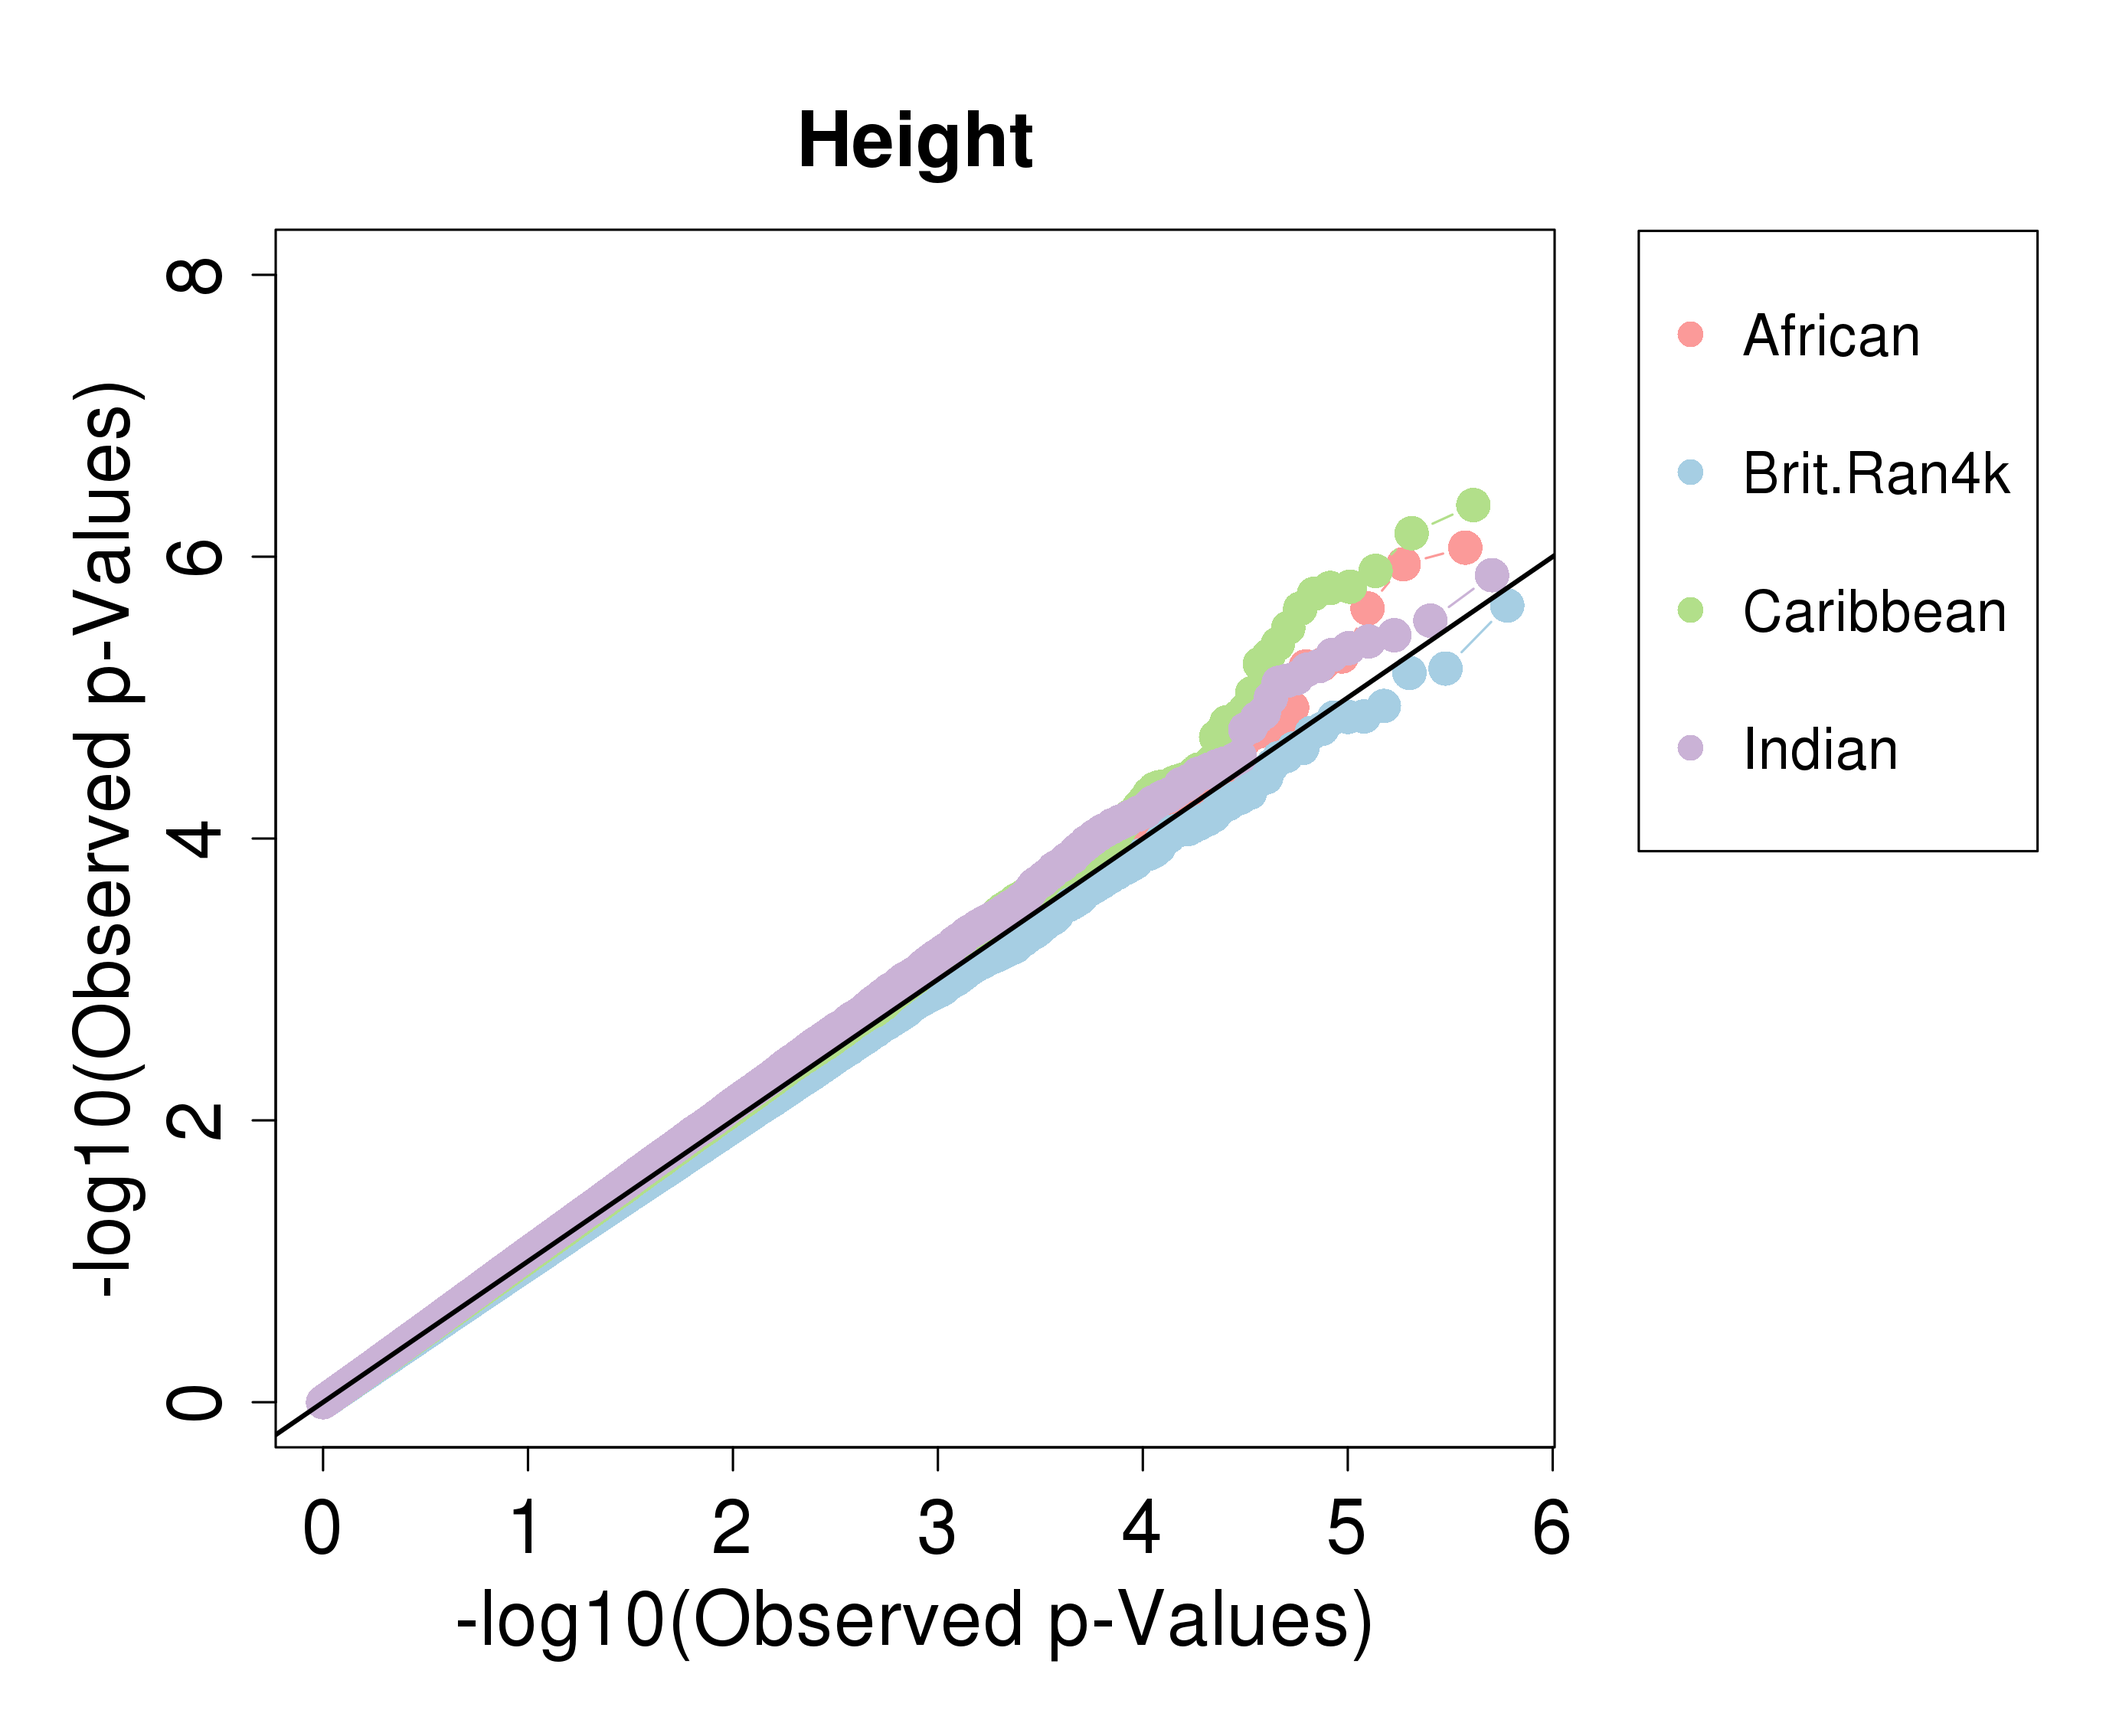
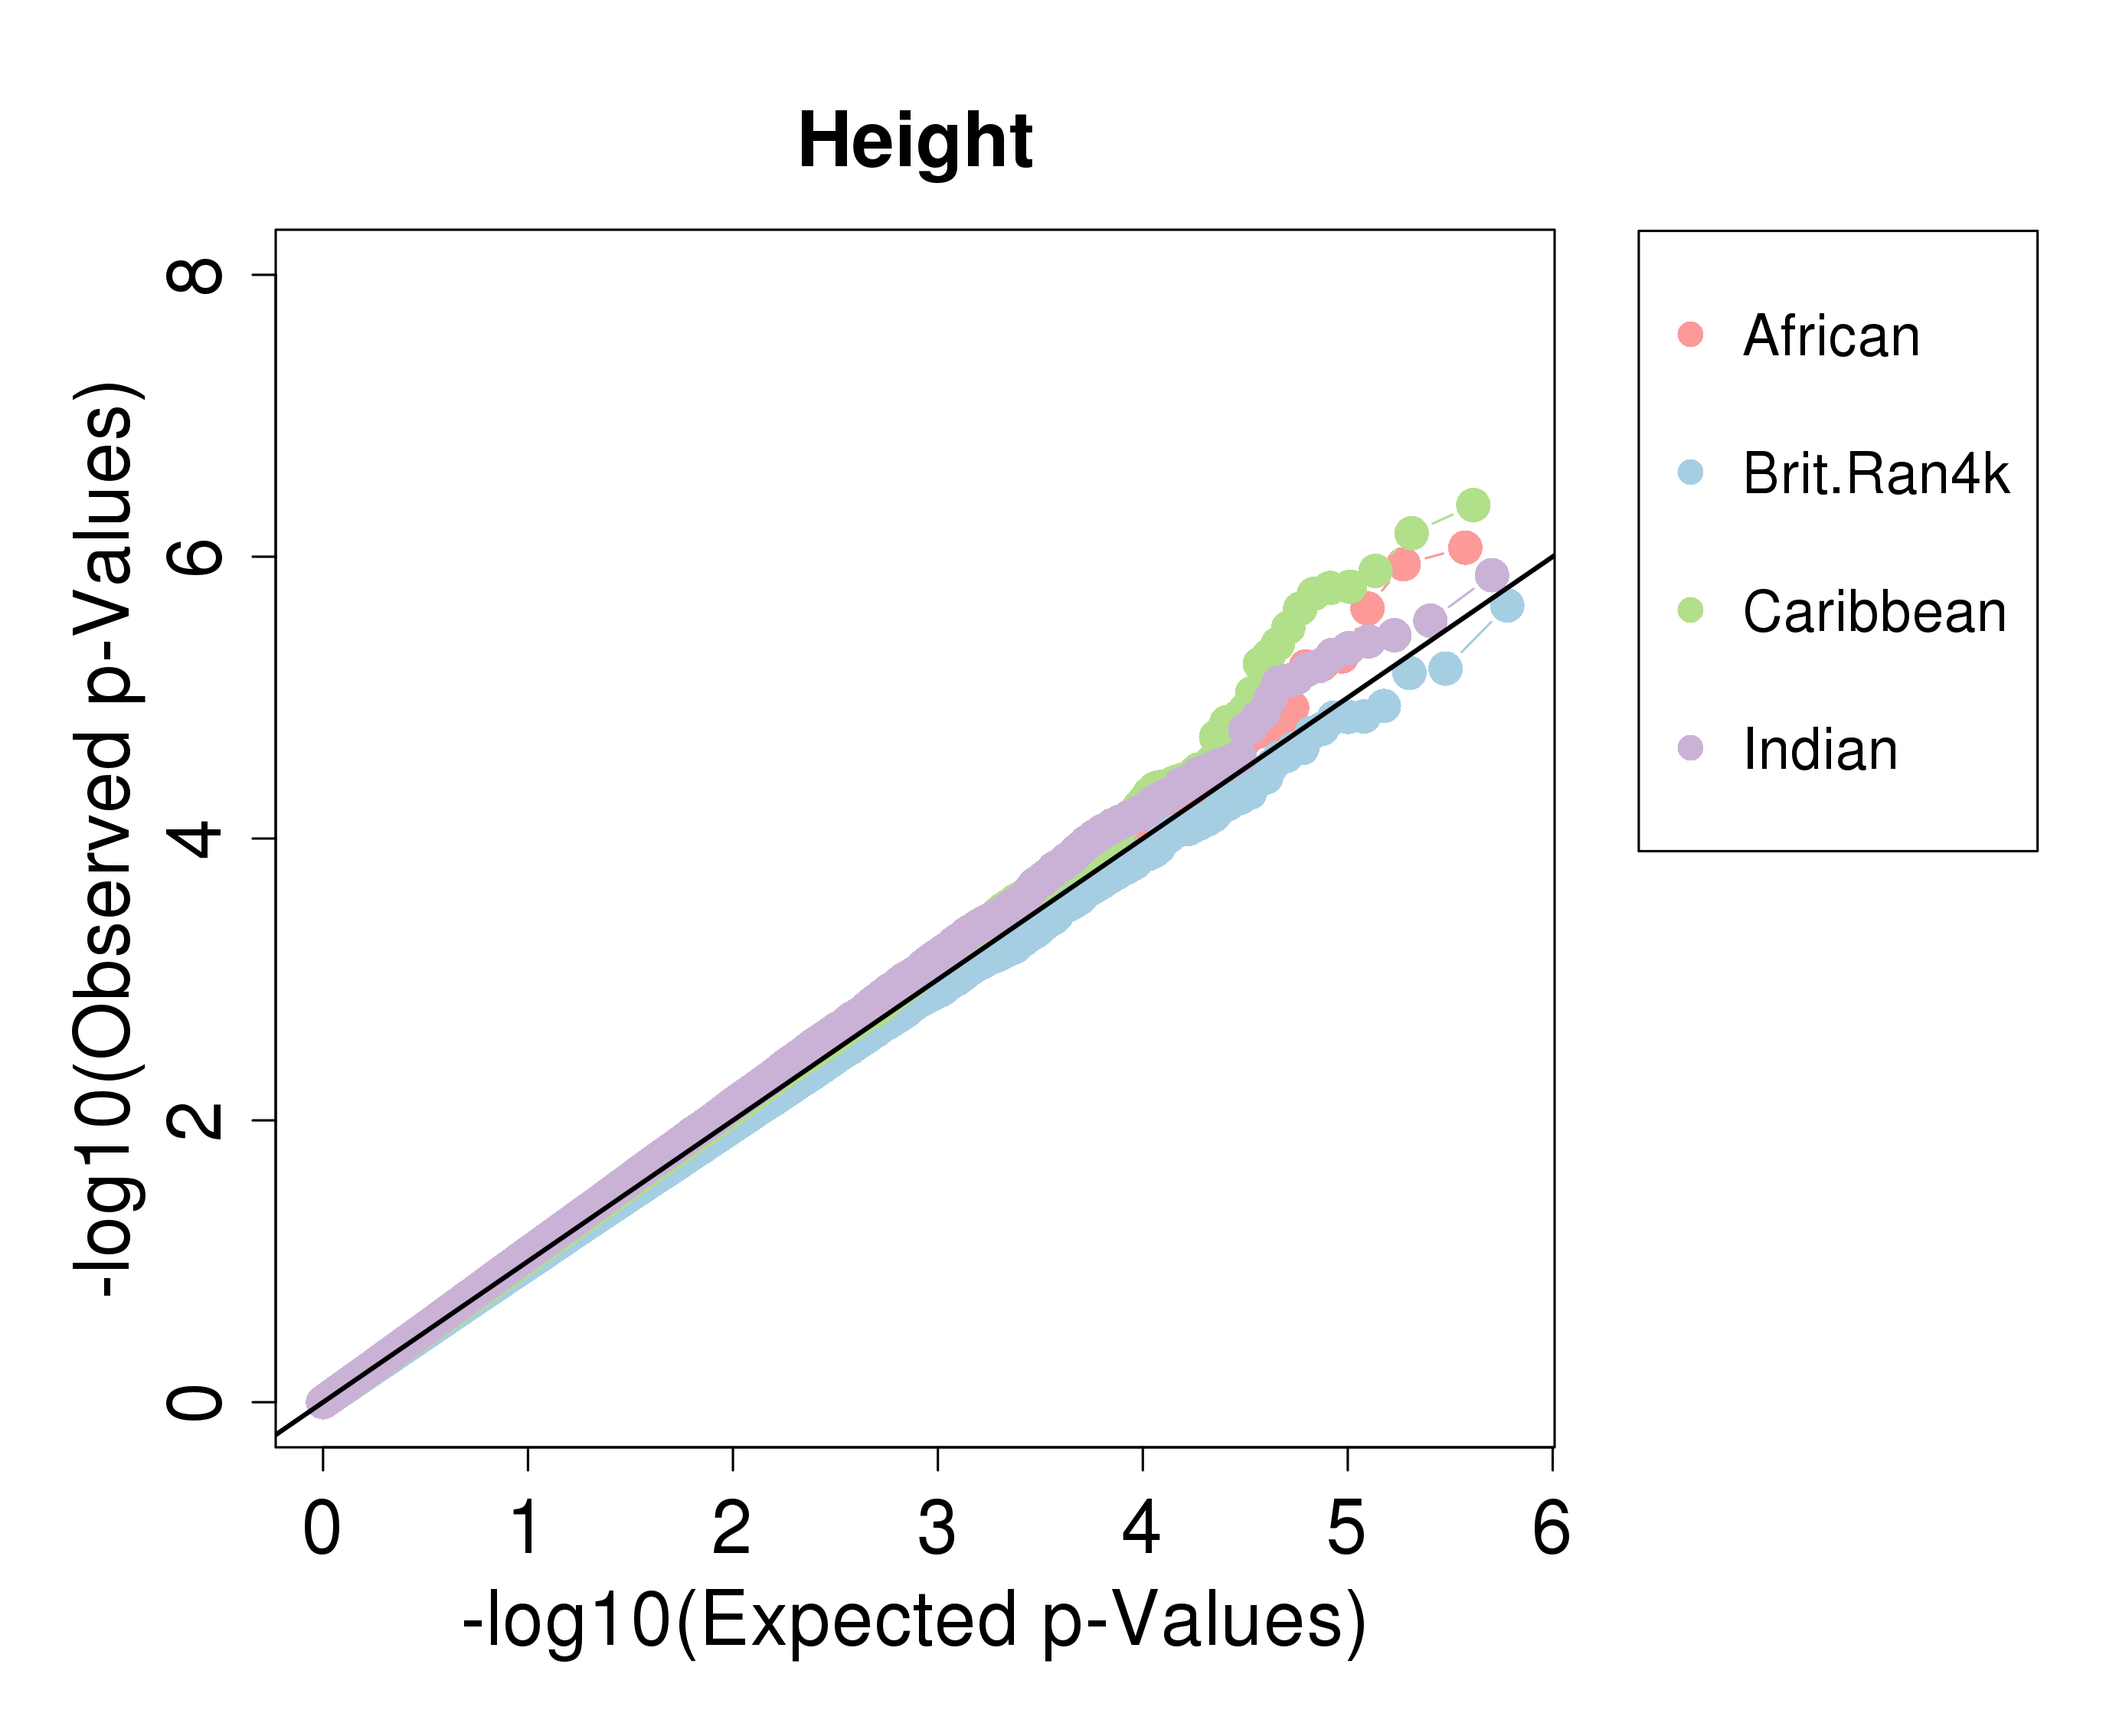
GWAS figure updates

Changed region(s): [[0.2164, 0.9022, 0.6491, 0.9644]]

diff --git a/Main.tex b/Main.tex
@@ -199,13 +199,13 @@ Running MAPIT on our four population subsets for both height and BMI, we find th
 \label{InterPath-Main-Figure-MAPIT-Height}
 \end{figure}
 
-Running a GWAS of height and BMI on each of our population subsets with PLINK, we find only one genome-wide significant hit (height in British.Ran4000; Figure \ref{InterPath-Main-Figure-GWAS}). And further similarly to before, we also find a handful of marginally significant variants. More interestingly however, we now ask how similar the MAPIT and GWAS results are. And indeed, comparing the two sets of genome-wide analyzes, we see a wide range of different genetic architecture patterns being represented (Figure \ref{InterPath-Main-Figure-MAPITvsGWAS} \& Supplementary Figure \ref{} \textcolor{red}{this will be all the population results}). Focusing on the African subset and height, we find 49 SNPs that are only marginally significant in MAPIT, 50 SNPs that are only marginally significant in the GWAS, and 0 SNPs that are marginally significant in both tests. Despite the lack of power to identify genome-wide significant results, we still see a strong representation of the partition of additive and epistatic effects in our results. 
+Running a GWAS of height and BMI on each of our population subsets with PLINK, we find only one genome-wide significant hit (Figure \ref{InterPath-Main-Figure-GWAS-Height} \& Supplementary Figure \ref{InterPath-Supp-Figure-GWAS-BMI}). And further similarly to before, we also find a handful of marginally significant variants. More interestingly however, we now ask how similar the MAPIT and GWAS results are. And indeed, comparing the two sets of genome-wide analyzes, we see a wide range of different genetic architecture patterns being represented (Figure \ref{InterPath-Main-Figure-MAPITvsGWAS} \& Supplementary Figure \ref{} \textcolor{red}{this will be all the population results}). Focusing on the African subset and height, we find 49 SNPs that are only marginally significant in MAPIT, 50 SNPs that are only marginally significant in the GWAS, and 0 SNPs that are marginally significant in both tests. Despite the lack of power to identify genome-wide significant results, we still see a strong representation of the partition of additive and epistatic effects in our results. 
 
 \begin{figure}[htbp]
 \centering
-\includegraphics[scale=.35]{Images/Main/InterPath_Main_Figure_GWAS_vs1.png}
+\includegraphics[scale=.35]{Images/Main/InterPath_Main_Figure_GWAS_vs2_Height.png}
 \caption[TBD]{\textbf{GWAS Results QQ-Plots}.}
-\label{InterPath-Main-Figure-GWAS}
+\label{InterPath-Main-Figure-GWAS-Height}
 \end{figure}
 
 \begin{figure}[htbp]

diff --git a/Supplementary.tex b/Supplementary.tex
@@ -57,6 +57,13 @@ After this first round of QC procedures, we then proceeded to impute our current
 
 \begin{figure}[htbp]
 \centering
+\includegraphics[scale=.35]{Images/Supp/InterPath_Supp_Figure_GWAS_vs2_BMI.png}
+\caption[TBD]{\textbf{GWAS Results QQ-Plots}.}
+\label{InterPath-Supp-Figure-GWAS-BMI}
+\end{figure}
+
+\begin{figure}[htbp]
+\centering
 \includegraphics[scale=.35]{Images/Supp/InterPath_Supp_Figure_perm1_QQPlots_KEGG_vs1.png}
 \caption[TBD]{\textbf{MAPIT-R Phenotype Permutation QQ-Plots}. Shown are QQ-plots for running MAPIT-R using a single, permuted version of the phenotypes for both Height and BMI with the KEGG pathways. Phenotypes were permuted within each population subset. Shown on the $x$-axis are the -$\log_{10}$ of our expected $p$-values and the on the $y$-axis are on the -$\log_{10}$ of our observed $p$-values. The dotted red line is our Bonferroni-corrected $p$-value threshold (.05 / XX KEGG pathways). We find across all population subsets that MAPIT-R displays the null behavior as expected when using permuted phenotypes.}
 \label{InterPath-Supp-Figure-perm1-QQPlots-KEGG}
